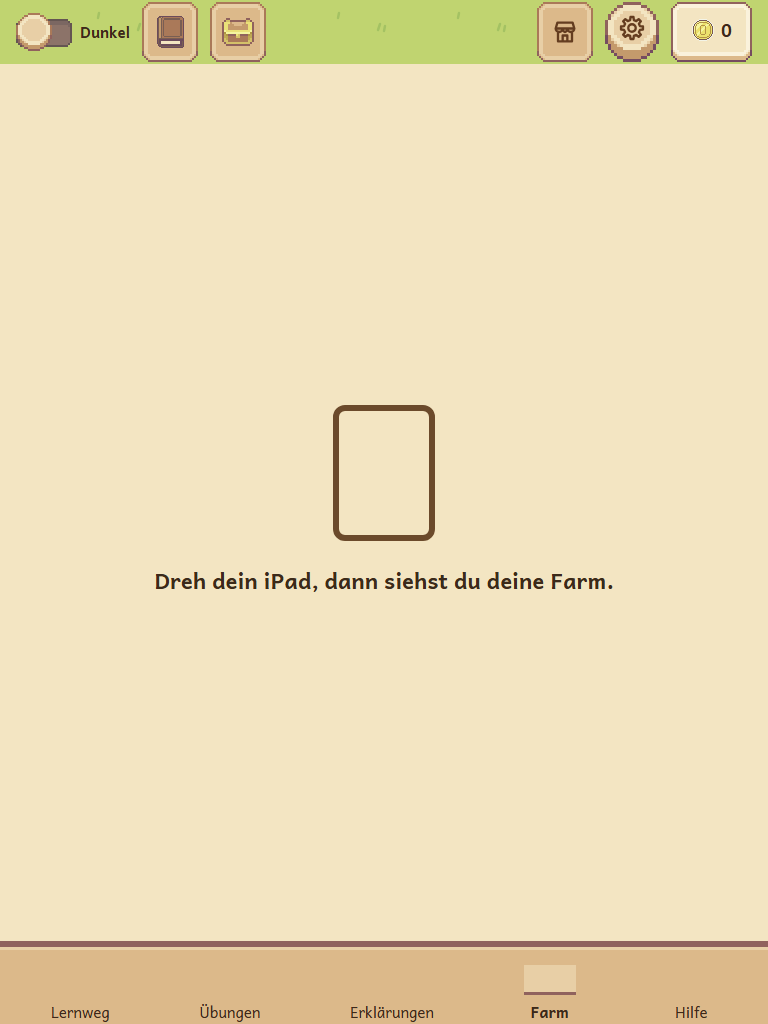
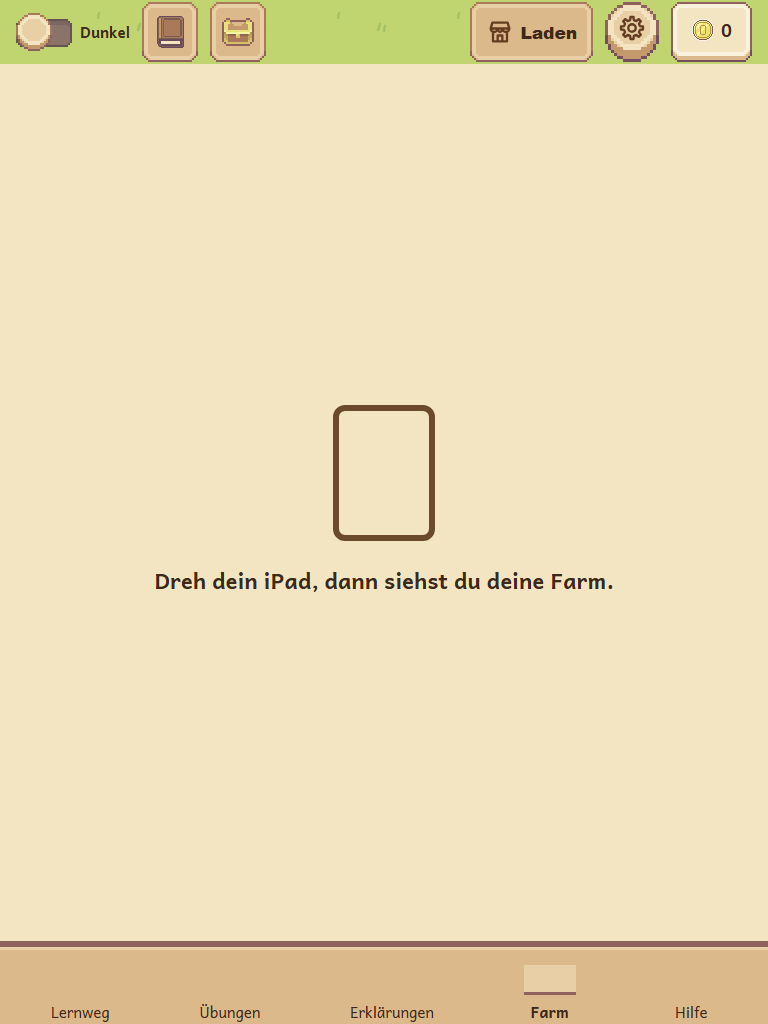
Farm-Mockups: Shop-Knopf mit dem Wort Laden; V1 bis V4 angenommen

Changed region(s): [[0.5938, 0.0, 0.75, 0.0625]]

diff --git a/docs/farm/layout-voll.html b/docs/farm/layout-voll.html
@@ -16,7 +16,7 @@
   <button type="button" class="farm-bildknopf" aria-label="Sammelalbum"><img src="../../src/grafik/buch_symbol.png" width="27" height="32" alt=""></button>
   <button type="button" class="farm-bildknopf" aria-label="Vorrat"><img src="../../src/grafik/truhe.png" width="32" height="28" alt=""></button>
   <div class="mitte"></div><!-- Jazz 2026-11-17: Überschrift „Meine Farm“ entfällt auf der Farm -->
-  <button type="button" class="farm-bildknopf farm-bildknopf--shop" aria-label="Shop"><svg class="symbol" viewBox="0 0 24 24" aria-hidden="true" focusable="false"><path d="M4 9l1.5-5h13L20 9Z M4 9c0 1.7 1.3 3 3 3s3-1.3 3-3c0 1.7 1.3 3 2 3s2-1.3 2-3c0 1.7 1.3 3 3 3s3-1.3 3-3 M6 12v8h12v-8 M10 20v-5h4v5" fill="none" stroke="currentColor" stroke-width="2" stroke-linecap="round" stroke-linejoin="round"/></svg></button>
+  <button type="button" class="farm-bildknopf farm-bildknopf--shop"><svg class="symbol" viewBox="0 0 24 24" aria-hidden="true" focusable="false"><path d="M4 9l1.5-5h13L20 9Z M4 9c0 1.7 1.3 3 3 3s3-1.3 3-3c0 1.7 1.3 3 2 3s2-1.3 2-3c0 1.7 1.3 3 3 3s3-1.3 3-3 M6 12v8h12v-8 M10 20v-5h4v5" fill="none" stroke="currentColor" stroke-width="2" stroke-linecap="round" stroke-linejoin="round"/></svg>Laden</button>
   <button type="button" class="holzknopf" aria-label="Farm einrichten"><svg class="symbol" viewBox="0 0 24 24" aria-hidden="true" focusable="false"><path d="M10.4 5.2L10.7 2.6L13.3 2.6L13.6 5.2L15.7 6.1L17.7 4.4L19.6 6.3L17.9 8.3L18.8 10.4L21.4 10.7L21.4 13.3L18.8 13.6L17.9 15.7L19.6 17.7L17.7 19.6L15.7 17.9L13.6 18.8L13.3 21.4L10.7 21.4L10.4 18.8L8.3 17.9L6.3 19.6L4.4 17.7L6.1 15.7L5.2 13.6L2.6 13.3L2.6 10.7L5.2 10.4L6.1 8.3L4.4 6.3L6.3 4.4L8.3 6.1Z M12 8.8a3.2 3.2 0 1 0 0 6.4 3.2 3.2 0 1 0 0-6.4Z" fill="none" stroke="currentColor" stroke-width="2" stroke-linecap="round" stroke-linejoin="round"/></svg></button>
   <span class="muenzen"><img src="../../src/grafik/muenze.png" width="24" height="24" alt="">1.240</span>
 </header>

diff --git a/docs/farm/layout-leer.html b/docs/farm/layout-leer.html
@@ -17,7 +17,7 @@
   <button type="button" class="farm-bildknopf" aria-label="Sammelalbum"><img src="../../src/grafik/buch_symbol.png" width="27" height="32" alt=""></button>
   <button type="button" class="farm-bildknopf" aria-label="Vorrat"><img src="../../src/grafik/truhe.png" width="32" height="28" alt=""></button>
   <div class="mitte"></div><!-- Jazz 2026-11-17: Überschrift „Meine Farm“ entfällt auf der Farm -->
-  <button type="button" class="farm-bildknopf farm-bildknopf--shop" aria-label="Shop"><svg class="symbol" viewBox="0 0 24 24" aria-hidden="true" focusable="false"><path d="M4 9l1.5-5h13L20 9Z M4 9c0 1.7 1.3 3 3 3s3-1.3 3-3c0 1.7 1.3 3 2 3s2-1.3 2-3c0 1.7 1.3 3 3 3s3-1.3 3-3 M6 12v8h12v-8 M10 20v-5h4v5" fill="none" stroke="currentColor" stroke-width="2" stroke-linecap="round" stroke-linejoin="round"/></svg></button>
+  <button type="button" class="farm-bildknopf farm-bildknopf--shop"><svg class="symbol" viewBox="0 0 24 24" aria-hidden="true" focusable="false"><path d="M4 9l1.5-5h13L20 9Z M4 9c0 1.7 1.3 3 3 3s3-1.3 3-3c0 1.7 1.3 3 2 3s2-1.3 2-3c0 1.7 1.3 3 3 3s3-1.3 3-3 M6 12v8h12v-8 M10 20v-5h4v5" fill="none" stroke="currentColor" stroke-width="2" stroke-linecap="round" stroke-linejoin="round"/></svg>Laden</button>
   <button type="button" class="holzknopf" aria-label="Farm einrichten"><svg class="symbol" viewBox="0 0 24 24" aria-hidden="true" focusable="false"><path d="M10.4 5.2L10.7 2.6L13.3 2.6L13.6 5.2L15.7 6.1L17.7 4.4L19.6 6.3L17.9 8.3L18.8 10.4L21.4 10.7L21.4 13.3L18.8 13.6L17.9 15.7L19.6 17.7L17.7 19.6L15.7 17.9L13.6 18.8L13.3 21.4L10.7 21.4L10.4 18.8L8.3 17.9L6.3 19.6L4.4 17.7L6.1 15.7L5.2 13.6L2.6 13.3L2.6 10.7L5.2 10.4L6.1 8.3L4.4 6.3L6.3 4.4L8.3 6.1Z M12 8.8a3.2 3.2 0 1 0 0 6.4 3.2 3.2 0 1 0 0-6.4Z" fill="none" stroke="currentColor" stroke-width="2" stroke-linecap="round" stroke-linejoin="round"/></svg></button>
   <span class="muenzen"><img src="../../src/grafik/muenze.png" width="24" height="24" alt="">0</span>
 </header>

diff --git a/docs/farm/farm-mockup.css b/docs/farm/farm-mockup.css
@@ -9,7 +9,9 @@
   .kopf .pixel-schild { margin: 0; }
   .kopf .pixel-schild h1 { font-size: 1.35rem; }
   /* Dunkel-Schalter, Bildknöpfe (.farm-bildknopf) und Zahnrad (.holzknopf) kommen unverändert aus bausteine.css wie im Spiel */
-  .farm-bildknopf--shop { color: var(--color-aktion); }
+  /* Jazz 2026-11-17: Shop-Knopf breiter, mit dem Wort „Laden“ neben dem Symbol */
+  .farm-bildknopf--shop { width: auto; display: inline-flex; gap: 6px; padding: 0 6px; color: var(--color-album-tinte); font-weight: 800; font-size: 17px; line-height: 1; }
+  .farm-bildknopf--shop .symbol { color: var(--color-aktion); }
   .farm-bildknopf--shop .symbol { width: 28px; height: 28px; }
   .rundknopf { width: 56px; height: 56px; box-sizing: border-box; padding: 0; display: inline-flex; align-items: center; justify-content: center; flex-direction: column; font-size: 11px; line-height: 1; }
   .rundknopf img { image-rendering: pixelated; }

diff --git a/docs/farm/layout-voll.md b/docs/farm/layout-voll.md
@@ -16,7 +16,8 @@ Die Karte und die Plätze stammen aus Teilaufgabe 2 (`layout-leer.md`). Hier ist
 **Kopfzeile wie im Spiel** (Wunsch von Jazz), in leerer und voller Farm:
 - Dunkel-Schalter aus dem UI-Pack;
 - Zahnrad als runder Holzknopf (`Symbol` „einstellungen“);
-- Sammelalbum, Vorrat und Shop als Bildknöpfe auf Tafel-Hintergrund;
+- Sammelalbum und Vorrat als Bildknöpfe auf Tafel-Hintergrund;
+- Shop-Knopf breiter, mit Symbol und dem Wort „Laden“ (Jazz);
 - als Seitenhintergrund die Wiese des Spiels.
 
 ## 1. Was „voll“ heißt (realistisches Maximum)
@@ -86,7 +87,7 @@ Dazu kommt die Figur, solange sie läuft. Das sind **14**.
 | Überdecken sich Tippflächen in der vollen Farm? | **ja, an einer Stelle:** Liegendes direkt neben einem Tier (Ei neben Huhn, Milch neben Kuh) | siehe V1 |
 | Sind hungrige Tiere ohne Lesen erkennbar? | ja, am leeren Napf bzw. Trog; die Meldung sagt es zusätzlich | – |
 
-## 4. Vorschläge für Jazz
+## 4. Vorschläge für Jazz (alle angenommen am 2026-11-17)
 
 | Nr. | Frage | Vorschlag |
 |---|---|---|

diff --git a/docs/umbau/STATUS.md b/docs/umbau/STATUS.md
@@ -552,5 +552,6 @@ Sechs Teilaufgaben (1 Analyse, 2 Layout leer, 3 Layout voll, 4 Dekorationen, 5 M
   19 einzeln hüpfende Dinge. Überladung: Hof frei, Zonen erkennbar; eng rechts vom Stall und oben Mitte; Tippflächen überlappen bei Ei/Milch
   neben dem Tier → V1: Eier im Stall-Eingang, Milch an der Scheunentür. **Getestet:** Mockup in drei Größen + Hochformat, Selbstprüfung ok.
   **Nicht getestet:** echtes iPad (Leistung), dunkler Modus, neue Deko-Bilder (nur Platzhalter).
-- **Offen:** Vorschläge V1–V4 in `layout-voll.md` Abschnitt 4.
-- **Nächster Schritt:** Rückmeldung von Jazz, dann Teilaufgabe 4 (Dekorationskonzept).
+- **Entscheidungen Jazz zu Teilaufgabe 3 (2026-11-17):** V1–V4 angenommen (Eier im Stall-Eingang, Milch an der Scheunentür; Bewegungs-Budget;
+  enge Stellen in Teilaufgabe 4 lösen; Erinnerung an Liegendes per Meldung). Shop-Knopf breiter mit dem Wort „Laden“ (Mockups und Fotos erneuert).
+- **Nächster Schritt:** Teilaufgabe 4 (Dekorationskonzept).

diff --git a/docs/farm/layout-leer.md b/docs/farm/layout-leer.md
@@ -29,7 +29,7 @@ Grundlage sind `analyse-farm.md` und die Antworten von Jazz vom 2026-11-17 (sieh
 4. **Farm-Knöpfe in der Kopfzeile** (64 statt 116 px hoch).
    - Links: Sammelalbum und Vorrat. Rechts: Shop, Farm einrichten und Münzen.
    - **Die Überschrift „Meine Farm“ entfällt auf der Farm** (Jazz). Das spart Platz.
-   - **Der Shop-Knopf ersetzt den Menüpunkt „Shop“ unten.** Das Menü hat dann 5 Punkte: Lernweg, Übungen, Erklärungen, Farm, Hilfe.
+   - **Der Shop-Knopf ersetzt den Menüpunkt „Shop“ unten.** Er ist breiter und trägt neben dem Symbol das Wort **„Laden“** (Jazz). Das Menü hat dann 5 Punkte: Lernweg, Übungen, Erklärungen, Farm, Hilfe.
    - **Das Buch im Sammelalbum-Knopf wird kleiner**, etwa so groß wie die Truhe (siehe Abschnitt 8).
 5. **Die Meldung** ist ein Papier-Banner unten im Meer. Dort stehen aktuelle Hinweise zur Farm. Einstein kommt nicht auf die Farm.
 6. **Felder liegen dicht wie heute (4 × 3).**
